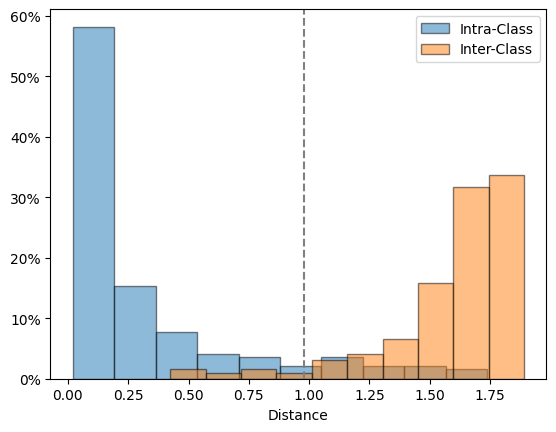
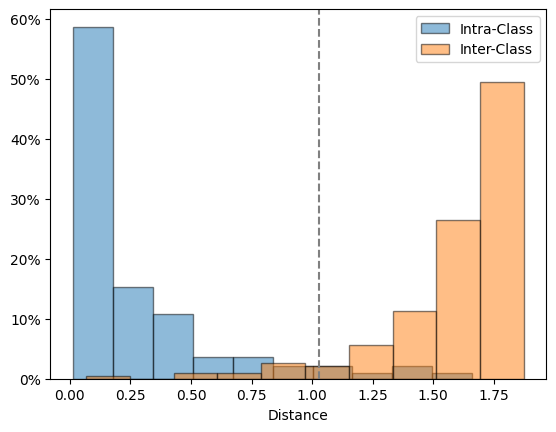
version 0.0.2

diff --git a/similarity_learning/__init__.py b/similarity_learning/__init__.py
@@ -1,4 +1,4 @@
-__version__ = "0.0.1"
+__version__ = "0.0.2"
 
 # Bugfix: fastprogress bars not showing in VSCode notebooks. Taken from https://github.com/microsoft/vscode-jupyter/issues/13163
 import IPython

diff --git a/README.md b/README.md
@@ -54,11 +54,11 @@ siamese.fit_threshold(dls.train)
 
     <div>
       <progress value='14' class='' max='14' style='width:300px; height:20px; vertical-align: middle;'></progress>
-      100.00% [14/14 00:04&lt;00:00]
+      100.00% [14/14 00:05&lt;00:00]
     </div>
     
 
-    (0.9800000190734863, 0.8493303656578064)
+    (1.0299999713897705, 0.8895089626312256)
 
 Let’s see how good it is:
 
@@ -67,7 +67,7 @@ learn = Learner(dls, siamese, metrics=accuracy)
 learn.validate()
 ```
 
-    (#2) [0.5396265387535095,0.8622449040412903]
+    (#2) [0.541471004486084,0.9005101919174194]
 
 ``` python
 learn.show_results()
@@ -82,7 +82,7 @@ learn.fit(5, 1e-4)
 learn.validate()
 ```
 
-    (#2) [0.29371750354766846,0.9285714030265808]
+    (#2) [0.2768465280532837,0.9464285969734192]
 
 ``` python
 learn.show_results()
@@ -99,7 +99,7 @@ siamese.plot_distance_histogram(dls.valid)
 
     <div>
       <progress value='7' class='' max='7' style='width:300px; height:20px; vertical-align: middle;'></progress>
-      100.00% [7/7 00:01&lt;00:00]
+      100.00% [7/7 00:02&lt;00:00]
     </div>
     
 
